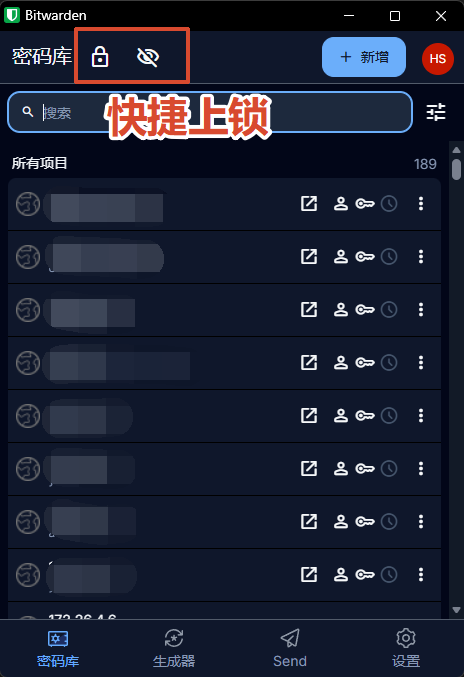
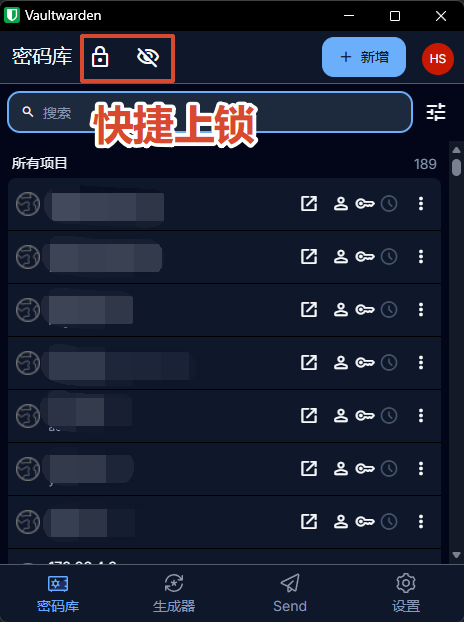
完善会话锁与界面锁解锁交互

diff --git a/libs/common/src/key-management/ui-lock/ui-lock.service.ts b/libs/common/src/key-management/ui-lock/ui-lock.service.ts
@@ -16,6 +16,7 @@ const UI_LOCK_FAILED_ATTEMPTS_KEY = "uiLockFailedAttempts";
 const UI_LOCK_BACKOFF_UNTIL_KEY = "uiLockBackoffUntil";
 const UI_LOCK_SKIP_CHECK_KEY = "uiLockSkipCheck";
 const UI_LOCK_MANUAL_LOCK_KEY = "uiLockManuallyLocked";
+const UI_LOCK_SKIP_AFTER_SESSION_UNLOCK_KEY = "uiLockSkipAfterSessionUnlock";
 
 export abstract class UiLockServiceAbstraction {
   abstract isUiLocked$(userId: UserId): Observable<boolean>;
@@ -32,6 +33,8 @@ export abstract class UiLockServiceAbstraction {
   abstract clearManualLock(userId: UserId): Promise<void>;
   abstract setPopupOpenedForLockCheck(): void;
   abstract consumePopupOpenedForLockCheck(): boolean;
+  abstract setSkipAfterSessionUnlock(): Promise<void>;
+  abstract consumeSkipAfterSessionUnlock(): Promise<boolean>;
 }
 
 export class UiLockService implements UiLockServiceAbstraction {
@@ -54,6 +57,19 @@ export class UiLockService implements UiLockServiceAbstraction {
   consumePopupOpenedForLockCheck(): boolean {
     const value = this.popupOpenedForLockCheck;
     this.popupOpenedForLockCheck = false;
+    return value;
+  }
+
+  async setSkipAfterSessionUnlock(): Promise<void> {
+    await chrome.storage.session.set({ [UI_LOCK_SKIP_AFTER_SESSION_UNLOCK_KEY]: true });
+  }
+
+  async consumeSkipAfterSessionUnlock(): Promise<boolean> {
+    const result = await chrome.storage.session.get(UI_LOCK_SKIP_AFTER_SESSION_UNLOCK_KEY);
+    const value = result[UI_LOCK_SKIP_AFTER_SESSION_UNLOCK_KEY] === true;
+    if (value) {
+      await chrome.storage.session.remove(UI_LOCK_SKIP_AFTER_SESSION_UNLOCK_KEY);
+    }
     return value;
   }
 

diff --git a/apps/browser/src/background/runtime.background.ts b/apps/browser/src/background/runtime.background.ts
@@ -13,6 +13,7 @@ import { ConfigService } from "@bitwarden/common/platform/abstractions/config/co
 import { LogService } from "@bitwarden/common/platform/abstractions/log.service";
 import { MessagingService } from "@bitwarden/common/platform/abstractions/messaging.service";
 import { MessageListener, isExternalMessage } from "@bitwarden/common/platform/messaging";
+import { UiLockServiceAbstraction } from "@bitwarden/common/key-management/ui-lock";
 import { Utils } from "@bitwarden/common/platform/misc/utils";
 import { UserId } from "@bitwarden/common/types/guid";
 import { CipherType } from "@bitwarden/common/vault/enums";
@@ -57,6 +58,7 @@ export default class RuntimeBackground {
     private readonly lockService: LockService,
     private billingAccountProfileStateService: BillingAccountProfileStateService,
     private browserInitialInstallService: BrowserInitialInstallService,
+    private uiLockService: UiLockServiceAbstraction,
   ) {
     // onInstalled listener must be wired up before anything else, so we do it in the ctor
     chrome.runtime.onInstalled.addListener((details: any) => {
@@ -277,6 +279,10 @@ export default class RuntimeBackground {
         }
 
         this.processReloadService.cancelProcessReload();
+
+        if (msg.command === "unlocked") {
+          await this.uiLockService.setSkipAfterSessionUnlock();
+        }
 
         if (item) {
           await BrowserApi.focusWindow(item.commandToRetry.sender.tab.windowId);

diff --git a/apps/browser/src/popup/ui-lock/ui-lock.guard.ts b/apps/browser/src/popup/ui-lock/ui-lock.guard.ts
@@ -27,6 +27,15 @@ export function uiLockGuard(): CanActivateFn {
       return true;
     }
 
+    // If the user just unlocked the session lock (vault lock), skip the UI lock
+    // for this navigation so they don't have to unlock twice.
+    const skipAfterSessionUnlock = await uiLockService.consumeSkipAfterSessionUnlock();
+    if (skipAfterSessionUnlock) {
+      await uiLockService.clearManualLock(userId);
+      await uiLockService.setLastUnlockTime(userId);
+      return true;
+    }
+
     const timeout = await firstValueFrom(uiLockService.getUiLockTimeout$(userId));
 
     // For "on popup open" option, lock on each fresh popup open.

diff --git a/apps/browser/src/background/main.background.ts b/apps/browser/src/background/main.background.ts
@@ -1532,6 +1532,7 @@ export default class MainBackground {
       this.lockService,
       this.billingAccountProfileStateService,
       this.browserInitialInstallService,
+      this.uiLockService,
     );
     this.nativeMessagingBackground = new NativeMessagingBackground(
       this.keyService,

diff --git a/README.md b/README.md
@@ -663,6 +663,9 @@ lockNow(userId)
 uiLockGuard 执行
   → 检查 uiLockSkipCheck，若为 true 则重置并放行（用于 lockNow 后导航）
   → 获取当前活跃用户 userId
+  → 若 consumeSkipAfterSessionUnlock() 返回 true（刚解锁会话锁）
+       → 调用 clearManualLock(userId) 清除手动上锁标志
+       → 调用 setLastUnlockTime(userId) 重置计时器，放行
   → 若 uiLockTimeout === "onPopupOpen" 且 consumePopupOpenedForLockCheck() 返回 true
        → 调用 lockNow(userId)
        → 重定向到 /ui-lock
@@ -693,6 +696,26 @@ unlock 成功处理
   → setLastUnlockTime()      // lastUnlockTime=Date.now()
   → 导航到 /tabs/vault
 ```
+
+#### 会话锁解锁后跳过 UI 锁
+
+当用户在 `/lock` 页面通过主密码/PIN/生物识别解锁会话锁后：
+
+```
+LockComponent 解锁成功
+  → this.messagingService.send("unlocked")
+  → runtime.background.ts 处理 "unlocked" 消息
+       → uiLockService.setSkipAfterSessionUnlock()
+       → 在 chrome.storage.session 写入一次性标记
+  → LockComponent 导航到 /tabs/current 或之前的 URL
+  → uiLockGuard 执行
+       → consumeSkipAfterSessionUnlock() 返回 true
+       → 调用 clearManualLock() 清除 uiLockManuallyLocked 标志
+       → 调用 setLastUnlockTime() 刷新计时器
+       → 放行
+```
+
+这样用户从会话锁进入主界面时，不会立即再弹出 UI 锁输入框。该标记为一次性，消费后立即清除；弹窗关闭或刷新后失效。
 
 #### 自动检测流程
 
@@ -914,6 +937,16 @@ get riskIconColor(): string {
 ### 11.4 影响范围
 
 UI 锁仅限制手动打开的扩展弹窗（popup），不影响浏览器自动调出的流程，例如自动填充内联菜单、保存/更新密码通知栏、右键菜单自动填充、后台自动填充、FIDO2/WebAuthn 等服务。
+
+### 11.5 会话锁与界面锁的联动
+
+当用户通过解锁会话锁（vault lock）进入主界面时，自动跳过本次 UI 锁检查，避免用户连续输入两次密码/PIN。
+
+实现方式：
+- 会话锁解锁成功后，background 向 `chrome.storage.session` 写入一次性标记。
+- 弹窗路由守卫在检查 UI 锁前先消费该标记。
+- 如果标记存在，则调用 `clearManualLock()` 清除 `uiLockManuallyLocked` 标志，并刷新 `uiLockLastUnlockTime`，然后放行；否则继续走正常的 UI 锁判定流程。
+- 该标记仅在一次导航中有效，弹窗关闭或刷新后即失效。
 
 ---
 
